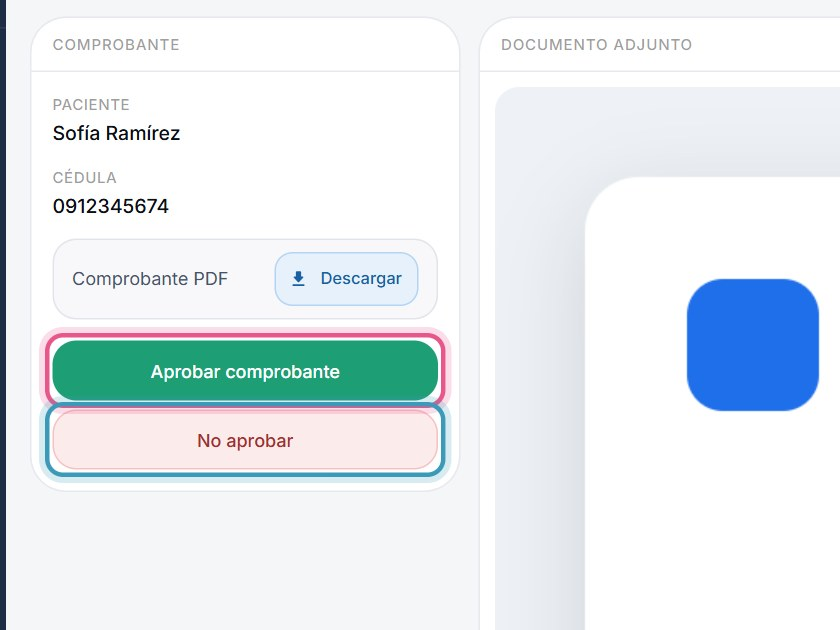
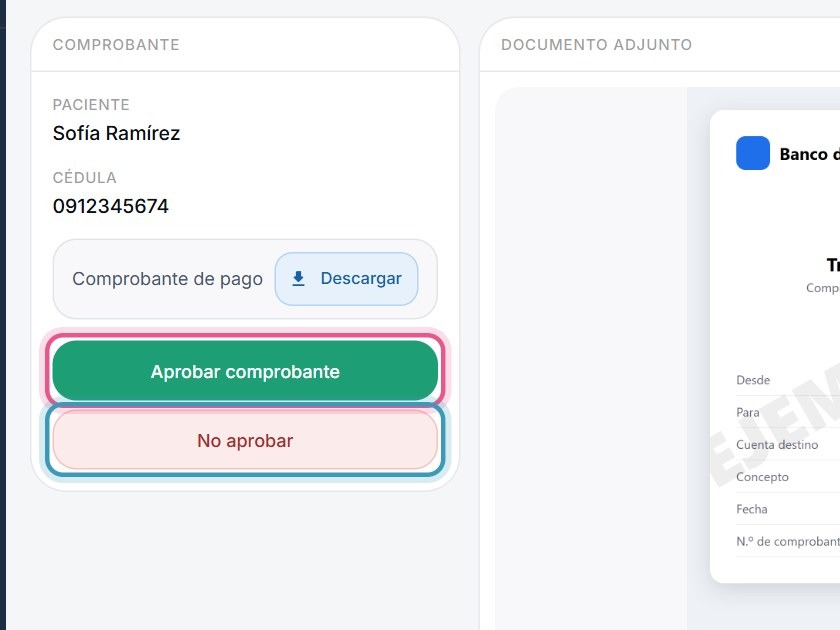
docs(manuales): comprobantes y reportes privados y botón Descargar

Changed region(s): [[0.8048, 0.2111, 1.0, 0.9651], [0.681, 0.5127, 0.7119, 1.0], [0.2167, 0.4222, 0.3095, 0.4524]]

diff --git a/aspy/resources/manuales/manual-familias.html b/aspy/resources/manuales/manual-familias.html
@@ -194,7 +194,8 @@
           <figure class="captura"><div class="marco"><img src="img/familias/16-pagar-datos.jpg" alt="Pantalla de pago con los datos de transferencia resaltados"></div></figure>
         </li>
         <li class="paso"><b>Sube el comprobante</b>
-          <p>Presiona <span class="boton claro">Subir comprobante</span> y elige la foto o el PDF. Cuando diga <strong>“Archivo cargado correctamente”</strong> <span class="n">1</span>, presiona <span class="boton">Continuar</span> <span class="n">2</span>.</p>
+          <p>Presiona <span class="boton claro">Subir comprobante</span> y elige la foto o el PDF (máximo 8 MB). Cuando diga <strong>“Archivo cargado correctamente”</strong> <span class="n">1</span>, presiona <span class="boton">Continuar</span> <span class="n">2</span>.</p>
+          <div class="aviso consejo"><span class="ico">🔒</span><div><p>Tu comprobante es <strong>privado</strong>: solo lo ven tú y el personal de ASPY que revisa los pagos. No tiene un enlace público.</p></div></div>
           <figure class="captura"><div class="marco"><img src="img/familias/17-pagar-comprobante.jpg" alt="Comprobante cargado y botón Continuar"></div></figure>
         </li>
         <li class="paso"><b>Revisa y confirma</b>
@@ -241,14 +242,14 @@
     <!-- 8 -->
     <section class="capitulo" id="cap-8" data-titulo="Reportes de tus sesiones">
       <div class="cap-cabecera"><div class="cap-num">8</div><div><small>Capítulo 8</small><h2>Reportes de tus sesiones</h2></div></div>
-      <p class="intro">Después de cada sesión, tu profesional sube un reporte con observaciones y recomendaciones. Solo lo ven tú, tu profesional y la administración.</p>
+      <p class="intro">Después de cada sesión, tu profesional sube un reporte con observaciones y recomendaciones. Es <strong>privado</strong>: solo lo ven tú, tu profesional y la administración, y solo con la sesión iniciada.</p>
       <ol class="pasos">
         <li class="paso"><b>Abre “Reportes”</b>
           <p>Verás tu historial de citas, de la más antigua a la más nueva. Las que ya tienen reporte muestran <strong>Ver reporte</strong>; las demás dicen “Sin reporte”.</p>
           <figure class="captura"><div class="marco"><img src="img/familias/23-reportes.jpg" alt="Historial de citas con el enlace Ver reporte resaltado"></div></figure>
         </li>
         <li class="paso"><b>Lee el reporte</b>
-          <p>Al presionar <strong>Ver reporte</strong>, el documento se abre a la derecha. Desde ahí puedes ampliarlo, descargarlo o imprimirlo con los botones de arriba del documento.</p>
+          <p>Al presionar <strong>Ver reporte</strong>, el documento se abre a la derecha (en el celular, en una ventana que sube desde abajo). Con el botón <strong>Descargar</strong> lo guardas en tu equipo; es la forma más cómoda de leerlo en el celular.</p>
           <figure class="captura"><div class="marco"><img src="img/familias/24-reporte-abierto.jpg" alt="Reporte de sesión abierto en la vista previa"></div></figure>
         </li>
       </ol>

diff --git a/aspy/resources/manuales/manual-profesional.html b/aspy/resources/manuales/manual-profesional.html
@@ -135,7 +135,7 @@
           <figure class="captura"><div class="marco"><img src="img/profesional/05-reporte-boton.jpg" alt="Botón Nuevo Reporte resaltado en una cita sin reportar"></div></figure>
         </li>
         <li class="paso"><b>Sube el archivo</b>
-          <p>Presiona <strong>Subir reporte</strong> y elige el PDF desde tu equipo (máximo 10 MB).</p>
+          <p>Presiona <strong>Subir reporte</strong> y elige el PDF desde tu equipo (máximo 8 MB).</p>
           <figure class="captura"><div class="marco"><img src="img/profesional/06-reporte-vacio.jpg" alt="Pantalla Nuevo Reporte sin archivo"></div></figure>
         </li>
         <li class="paso"><b>Revisa y envía</b>
@@ -165,7 +165,8 @@
           <figure class="captura"><div class="marco"><img src="img/profesional/11-historial.jpg" alt="Historial del paciente con el botón Ver detalles"></div></figure>
         </li>
         <li class="paso"><b>Detalle de la cita</b>
-          <p>Muestra horario, profesional, paciente y el <strong>reporte</strong> de esa sesión, si ya existe.</p>
+          <p>Muestra horario, profesional, paciente y el <strong>reporte</strong> de esa sesión, si ya existe. Con <strong>Descargar</strong> lo guardas en tu equipo.</p>
+          <div class="aviso consejo"><span class="ico">🔒</span><div><p>Los reportes son <strong>información clínica privada</strong>: solo los ven el paciente, tú (que atendiste la cita) y la Administración. Secretaría no los ve. Si descargas uno, guárdalo en un lugar seguro y no lo compartas fuera de la fundación.</p></div></div>
           <figure class="captura"><div class="marco"><img src="img/profesional/12-detalle-cita.jpg" alt="Detalle de la cita con el reporte abierto"></div></figure>
         </li>
       </ol>

diff --git a/aspy/resources/manuales/manual-personal.html b/aspy/resources/manuales/manual-personal.html
@@ -106,6 +106,7 @@
           </ul>
           <figure class="captura"><div class="marco"><img src="img/personal/04-pago-detalle.jpg" alt="Detalle del pago con el comprobante adjunto"></div></figure>
           <div class="aviso importante"><span class="ico">🔎</span><div><p>Antes de aprobar, verifica en la <strong>cuenta bancaria de la fundación</strong> que el dinero llegó y que el <strong>monto</strong> coincide con el total del recibo.</p></div></div>
+          <div class="aviso consejo"><span class="ico">🔒</span><div><p>Los comprobantes son <strong>privados</strong>: solo los ven el paciente que pagó, Secretaría y la Administración, con la sesión iniciada. Si descargas uno, no lo compartas fuera de la fundación.</p></div></div>
         </li>
         <li class="paso"><b>Aprueba</b>
           <p>Presiona <span class="boton" style="background:#1d9e75">Aprobar comprobante</span> y confirma con <strong>Sí, aprobar</strong>.</p>

diff --git a/README.md b/README.md
@@ -22,7 +22,6 @@ Aplicación web para la **Fundación Aspy Ecuador** (Guayaquil), que acompaña a
 - Tailwind CSS 4 (utilidades puntuales; su variante `dark:` está sincronizada con el modo de MUI)
 - React Router 7, Redux (sesión), React Hook Form, Axios
 - FullCalendar (agenda), jsPDF / react-pdf (recibos y reportes), Framer Motion
-- Cloudinary (subida de comprobantes y reportes)
 - Despliegue: Vercel
 
 **Backend** (`aspy/`)
